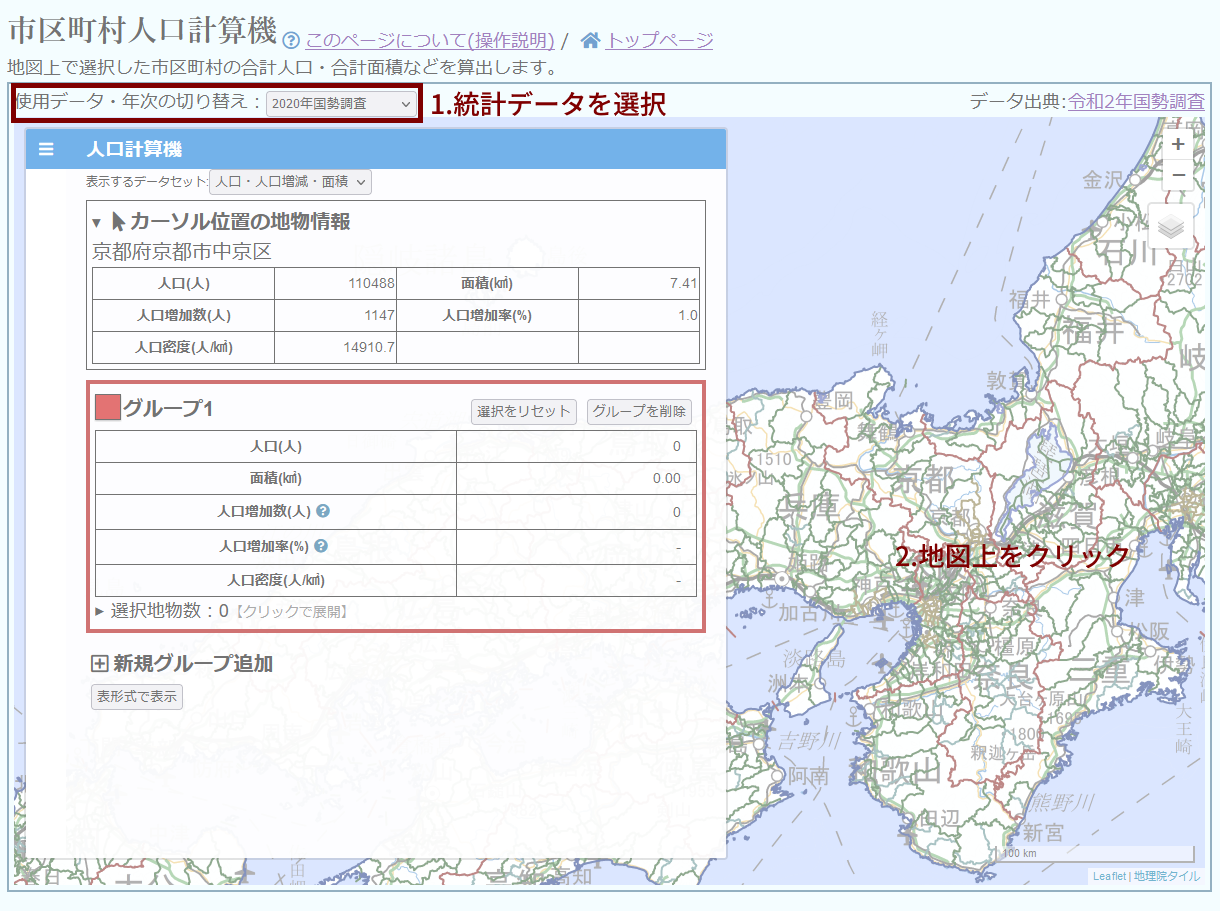
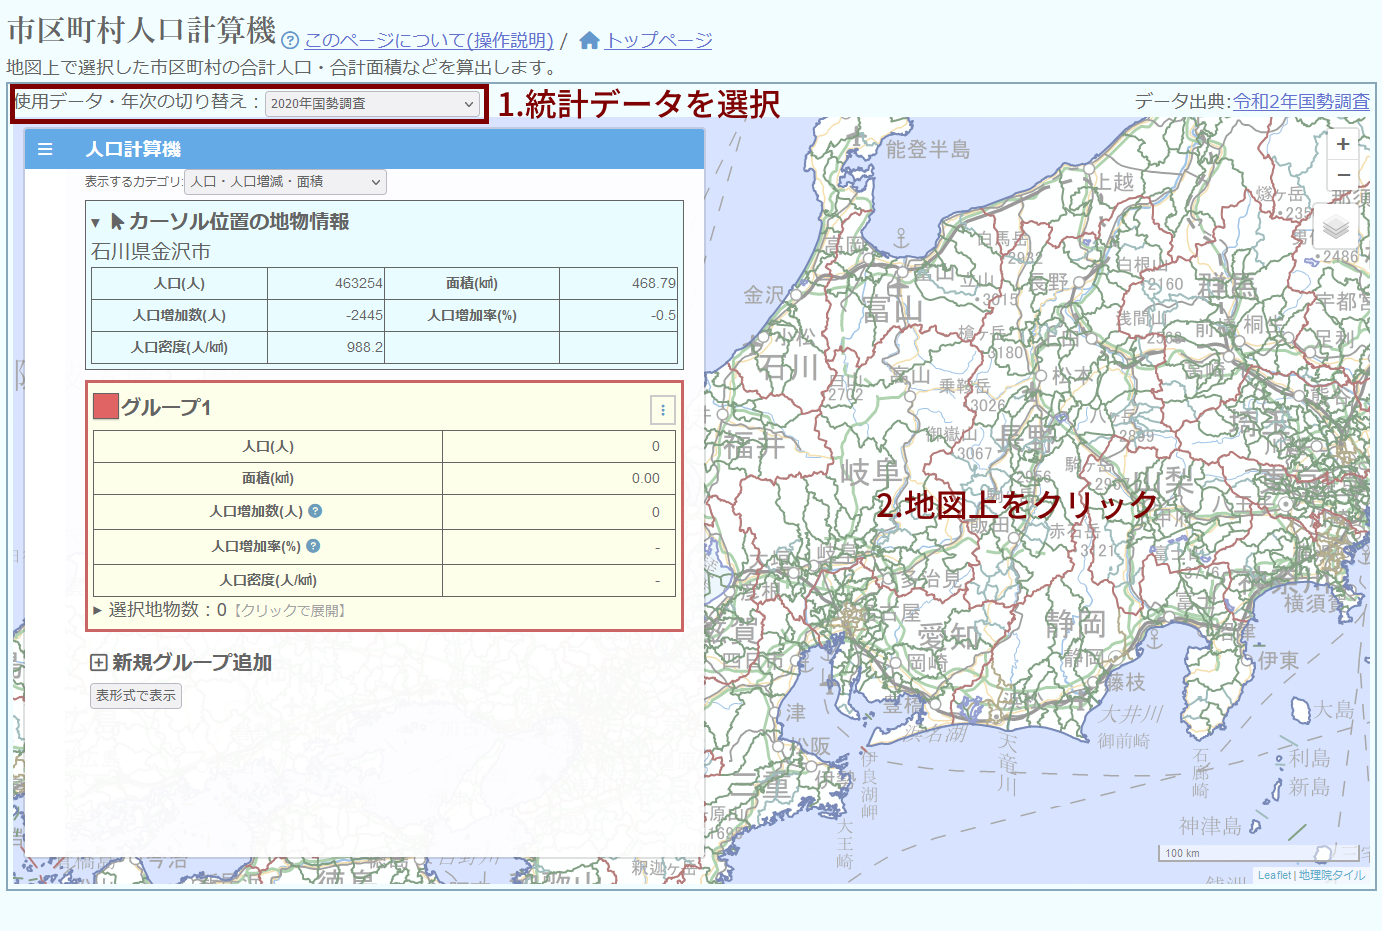
update calc
グループメニューの追加ほか

diff --git a/calculator.js b/calculator.js
@@ -8,6 +8,7 @@ let mouseChart;
 let dialog_reset;
 let dialog_delete;
 let dialog_changeDataset;
+let dialog_groupMenu;
 
 let selectedFeatures = [];
 selectedFeatures[0] = [];
@@ -142,11 +143,16 @@ async function init(){
   });
   let photo = L.tileLayer('https://cyberjapandata.gsi.go.jp/xyz/seamlessphoto/{z}/{x}/{y}.jpg', {
       attribution: "<a href='https://maps.gsi.go.jp/development/ichiran.html' target='_blank'>地理院タイル</a>",
-      pane: "base"
+      pane: "base",
+      opacity: 0.7
   });
   let osm = L.tileLayer('https://tile.openstreetmap.org/{z}/{x}/{y}.png', {
       attribution: "&copy; <a href='https://www.openstreetmap.org/copyright' target='_blank'>OpenStreetMap</a> contributors",
       pane: "base"
+  });
+  let googleRoads = L.gridLayer.googleMutant({
+      type: "roadmap",
+      attribution: "Google"
   });
 
   let blank = L.tileLayer('', {pane:"base"});
@@ -157,6 +163,7 @@ async function init(){
     "陰影起伏図": shadeMap,
     "航空写真": photo,
     "OpenStreetMap": osm,
+    "GoogleMap": googleRoads,
     "背景非表示":blank
   };
 
@@ -169,6 +176,7 @@ async function init(){
     "陰影起伏図": "shadeMap",
     "航空写真": "photo",
     "OpenStreetMap": "osm",
+    "GoogleMap": "googleRoads",
     "背景非表示": "blank"
   }
 
@@ -235,8 +243,15 @@ async function init(){
   /*--- グループ内コンテンツの初期化処理 ---*/
 
   $("#group0").on("click", groupSelect);
-  $("#group0").find(".resetBtn").on("click", resetGroup);
-  $("#group0").find(".deleteBtn").on("click", deleteGroup);
+  $("#group0").find(".menuBtn").on("click", groupMenu);
+  let menu = $("#group0").find(".popupMenu");
+  $(menu).find(".resetGroup").on("click", resetGroup);
+  $(menu).find(".deleteGroup").on("click", deleteGroup);
+  $(menu).find(".changeGroupColor").on("click", function(e){
+    let n = $(this).parents(".group").attr("id").substr(5);
+    colorPicker[n].show();
+  });
+  $(menu).find(".changeGroupName").on("click", changeGroupName);
 
   colorPicker[0] = new EightBitColorPicker({el: $("#group0").find(".colorPicker")[0], color: 112});
   colorPicker[0].addEventListener("colorChange", e=> selectColor(e));
@@ -698,6 +713,69 @@ function selectColor(e){
 
 }
 
+//グループメニュー
+function groupMenu(e){
+  $(".popupMenu").each(function(){
+    $(this).hide();
+  });
+  let n = $(this).parents(".group").attr("id").substr(5);
+  $("#group" + n).find(".popupMenu").show();
+  $("#sidebar").on("click", closeGroupMenu);
+}
+
+function closeGroupMenu(e){
+  //メニューボタンクリック時は作動させない
+  if(!e.target.closest("button") || e.target.closest("button").className !== "menuBtn"){
+    $(".popupMenu").each(function(){
+      $(this).hide();
+    });
+    $("#sidebar").off("click", closeGroupMenu);
+  }
+}
+
+//グループの名称変更
+function changeGroupName(){
+  $(".groupName").each(function(){
+    let n = $(this).parents(".group").attr("id").substr(5);
+    $(this).empty();
+    $(this).text(groupNames[n]);
+  });
+  let n = $(this).parents(".group").attr("id").substr(5);
+  let nameArea = $("#group" + n).find(".groupName");
+  $(nameArea).text("");
+  $(nameArea).append($("<input>").attr({type: "text", name: "groupName", placeholder: groupNames[n]}).keypress(function(e){
+    if(e.which == 13){
+      $(this).next().click();
+    }
+  }));
+  let submitBtn = $("<input>").attr({type: "button", value: "OK"}).on("click", function(){
+    let n = $(this).parents(".group").attr("id").substr(5);
+    if($("input[name='groupName']").val()){
+      groupNames[n] = $("input[name='groupName']").val();
+    }
+    let nameArea = $("#group" + n).find(".groupName");
+    $(nameArea).empty();
+    $(nameArea).text(groupNames[n]);
+  });
+  $(nameArea).append(submitBtn);
+  $("input[name='groupName']").focus();
+
+  $("#sidebar").on("click", cancelGroupName);
+
+}
+
+function cancelGroupName(e){
+  //グループ名表示位置クリック時は作動させない
+  if($(e.target).closest(".h3").length == 0){
+    $(".groupName").each(function(){
+      let n = $(this).parents(".group").attr("id").substr(5);
+      $(this).empty();
+      $(this).text(groupNames[n]);
+    });
+    $("#sidebar").off("click", cancelGroupName);
+  }
+}
+
 //リセットボタン処理
 function resetGroup(){
   let n = $(this).parents(".group").attr("id").substr(5);
@@ -728,6 +806,11 @@ function deleteGroup(){
     //グループ数が1の場合、そのグループのリセットのみ行う
     if(selectedFeatures.length === 1){
       selectedFeatures[n].splice(0);
+      groupNames[n] = "グループ1";
+      $("#group" + n).find(".groupName").text(groupNames[n]);
+      newGroupNo = 2;
+      colorPicker[n].updateColor(112);
+      groupColors[n] = "#cc0000";
       rewriteSumTable(n);
     }else{
       selectedFeatures.splice(n, 1);
@@ -971,7 +1054,7 @@ function datasetChange(e){
     chart.splice(1);
     selectedFeatures.splice(1);
     selectedFeatures[0] = [];
-    $("group0").find(".groupName").text("グループ1");
+    $("#group0").find(".groupName").text("グループ1");
     //group0を再選択
     $("#group0").css({border: "3px solid #a00", backgroundColor: "#feffde"});
     currentGroup = 0;
@@ -1023,7 +1106,7 @@ function openTable(){
         $("#csvTable").append(tr2);
         $("<td>", {text: fts.CODE5}).appendTo(tr2);
         $("<td>", {text: name}).appendTo(tr2);
-        $("<td>", {text: "G" + groupNames[i].substr(4)}).appendTo(tr2);
+        $("<td>", {text: "G" + (i + 1)}).appendTo(tr2);
         csvCate.forEach(cate => {
           if(cate.func){
             let tableData = calc(fts, cate.func, cate.prec, cate.args);
@@ -1038,7 +1121,7 @@ function openTable(){
     let tr3 = $("<tr>");
     $(tr3).css("background-color", "#ddf");
     $("#csvTable").append(tr3);
-    $("<td>", {text: "G" + groupNames[i].substr(4)}).appendTo(tr3);
+    $("<td>", {text: "G" + (i + 1)}).appendTo(tr3);
     $("<td>", {text: groupNames[i]}).appendTo(tr3);
     if(tableType === "all"){$("<td>").appendTo(tr3);}else{$("<td>", {text: selectedFeatures[i].length}).appendTo(tr3);}
     csvCate.forEach(cate => {

diff --git a/calculator.html b/calculator.html
@@ -1,9 +1,9 @@
 <!DOCTYPE html>
 <html lang="ja">
-<html>
 <head>
   <meta charset="UTF-8">
   <meta name="viewport" content="user-scalable=no">
+  <meta name="description" content="市区町村を地図上で選んで、人口・面積など様々なデータの合計値を算出できるツールです。">
   <title>人口計算機</title>
   <link rel="canonical" href="https://hanishina.github.io/maps/calculator.html"/>
     <!-- Global site tag (gtag.js) - Google Analytics -->
@@ -37,6 +37,8 @@
   <script src="./Plugins/modaal.min.js"></script>
   <script src="./Plugins/toastr.min.js"></script>
   <script src="https://cdnjs.cloudflare.com/ajax/libs/Chart.js/3.7.1/chart.min.js"></script>
+  <script src="https://unpkg.com/leaflet.gridlayer.googlemutant@latest/dist/Leaflet.GoogleMutant.js"></script>
+  <script src="https://maps.googleapis.com/maps/api/js?key=AIzaSyA05mQQCiqSlagtiU7Z0NoeX3n1snBdg44" async defer></script>
   <script src="./dialog.js"></script>
 
   <script src="./calc_categories.js"></script>
@@ -93,7 +95,17 @@
             </details>
             <div id="groupsContainer" ontouchstart="">
               <div id="group0" class="group">
-                <div class="h3" style="display: flex;flex-wrap: wrap;"><span class="colorPicker"></span><span class="groupName" style="margin: 0px 2px;">グループ1</span><span style="margin-left: auto;"><input class="resetBtn" type="button" value="選択をリセット"/><input class="deleteBtn" type="button" value="グループを削除"/><span></div>
+                <div class="h3" style="display: flex;flex-wrap: wrap;"><span class="colorPicker"></span><span class="groupName" style="margin: 0px 2px;">グループ1</span>
+                  <span style="margin-left: auto;position: relative;">
+                    <button class="menuBtn"><i class="fa-solid fa-ellipsis-vertical" style="color: #05a"></i></button>
+                    <div class="popupMenu" style="display:none;">
+                      <div class="resetGroup">選択をリセット</div>
+                      <div class="deleteGroup">グループを削除</div>
+                      <div class="changeGroupColor">色を変更</div>
+                      <div class="changeGroupName">名前を変更</div>
+                    </div>
+                  </span>
+                </div>
                 <table class="groupTable">
                   <tr><th class="groupCol_name0">人口(人)</th><td class="groupCol_data0">0</td></tr>
                   <tr><th class="groupCol_name1">面積(㎢)</th><td class="groupCol_data1">0.00</td></tr>

diff --git a/calculator_manual.html b/calculator_manual.html
@@ -50,20 +50,22 @@
     データ名に<i class="fas fa-question-circle" style="color:#0f5f91;"></i>マークがついている場合、マークにカーソルを乗せるとデータの説明が表示される。
     <h4>５．グループ表示色</h4>
     地図上でグループに追加された市区町村に着色する色。クリックで色を変更できる。
-    <h4>６．選択リセットボタン</h4>
-    そのグループの選択をリセットする。
-    <h4>７．グループ削除ボタン</h4>
-    そのグループを削除する。
-    <h4>８．選択地物数表示・個別地物テーブル</h4>
+    <h4>６．グループメニューボタン</h4>
+    グループメニューを展開する。<br>
+    <b>選択をリセット：</b>そのグループで選択した全ての市区町村を削除する。<br>
+    <b>グループを削除：</b>そのグループを削除する。<br>
+    <b>色の変更：</b>グループの選択色を変更する。<br>
+    <b>名前の変更：</b>グループの名称を変更する。<br>
+    <h4>７．選択地物数表示・個別地物テーブル</h4>
     選択した市区町村の数が表示される。<br>
     クリックすると選択した各市区町村のデータを表示するテーブルが展開される。<br>
-    ・地物名：選択した市区町村等の名称。<br>
-    ・指標セレクトボックス：セレクトボックスから選択した指標のデータが表示される。<br>
-    ・構成比：グループの合計値に対して、その地物の値が占める割合。<br>
+    <b>地物名：</b>選択した市区町村等の名称。<br>
+    <b>指標セレクトボックス：</b>セレクトボックスから選択した指標のデータが表示される。<br>
+    <b>構成比：</b>グループの合計値に対して、その地物の値が占める割合。<br>
     (構成比は絶対数かつ正の値をとる指標のみ表示されます。比率や割合を示す指標(人口密度など)や負の値を持ち得る指標(人口増加数など)を選択すると構成比は表示されません。)
-    <h4>９．新規グループ追加</h4>
+    <h4>８．新規グループ追加</h4>
     クリックすると新しいグループを追加する。
-    <h4>１０．表形式で表示</h4>
+    <h4>９．表形式で表示</h4>
     全グループ・選択地物のデータを表示するテーブルを表示する。
   </div>
 
